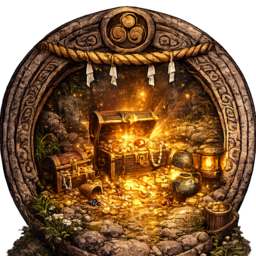
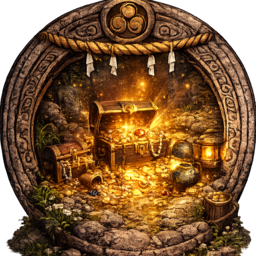
Prepare hotfixes for 0.7.0

diff --git a/assets/js/game/scenes/BootScene.js b/assets/js/game/scenes/BootScene.js
@@ -30,8 +30,8 @@ export default class BootScene extends Phaser.Scene {
     this.load.image('map0_battle_tile', '/images/game/map0_battle_tile.png?v=2')
     this.load.image('map0_mini_boss_tile', '/images/game/map0_mini_boss_tile.png?v=2')
     this.load.image('map0_boss_tile', '/images/game/map0_boss_tile.png?v=1')
-    this.load.image('map0_chest_tile', '/images/game/map0_chest_tile.png?v=1')
-    this.load.image('map0_shop_tile', '/images/game/map0_shop_tile.png?v=1')
+    this.load.image('map0_chest_tile', '/images/game/map0_chest_tile.png?v=3')
+    this.load.image('map0_shop_tile', '/images/game/map0_shop_tile.png?v=4')
     this.load.image('map0_rest_tile', '/images/game/map0_rest_tile.png?v=2')
 
     // Loadout portrait

diff --git a/priv/static/service-worker.js b/priv/static/service-worker.js
@@ -1,4 +1,4 @@
-const CACHE_NAME = "medoru-v46";
+const CACHE_NAME = "medoru-v49";
 const STATIC_ASSETS = [
   "/manifest.json",
   "/assets/css/app.css",
